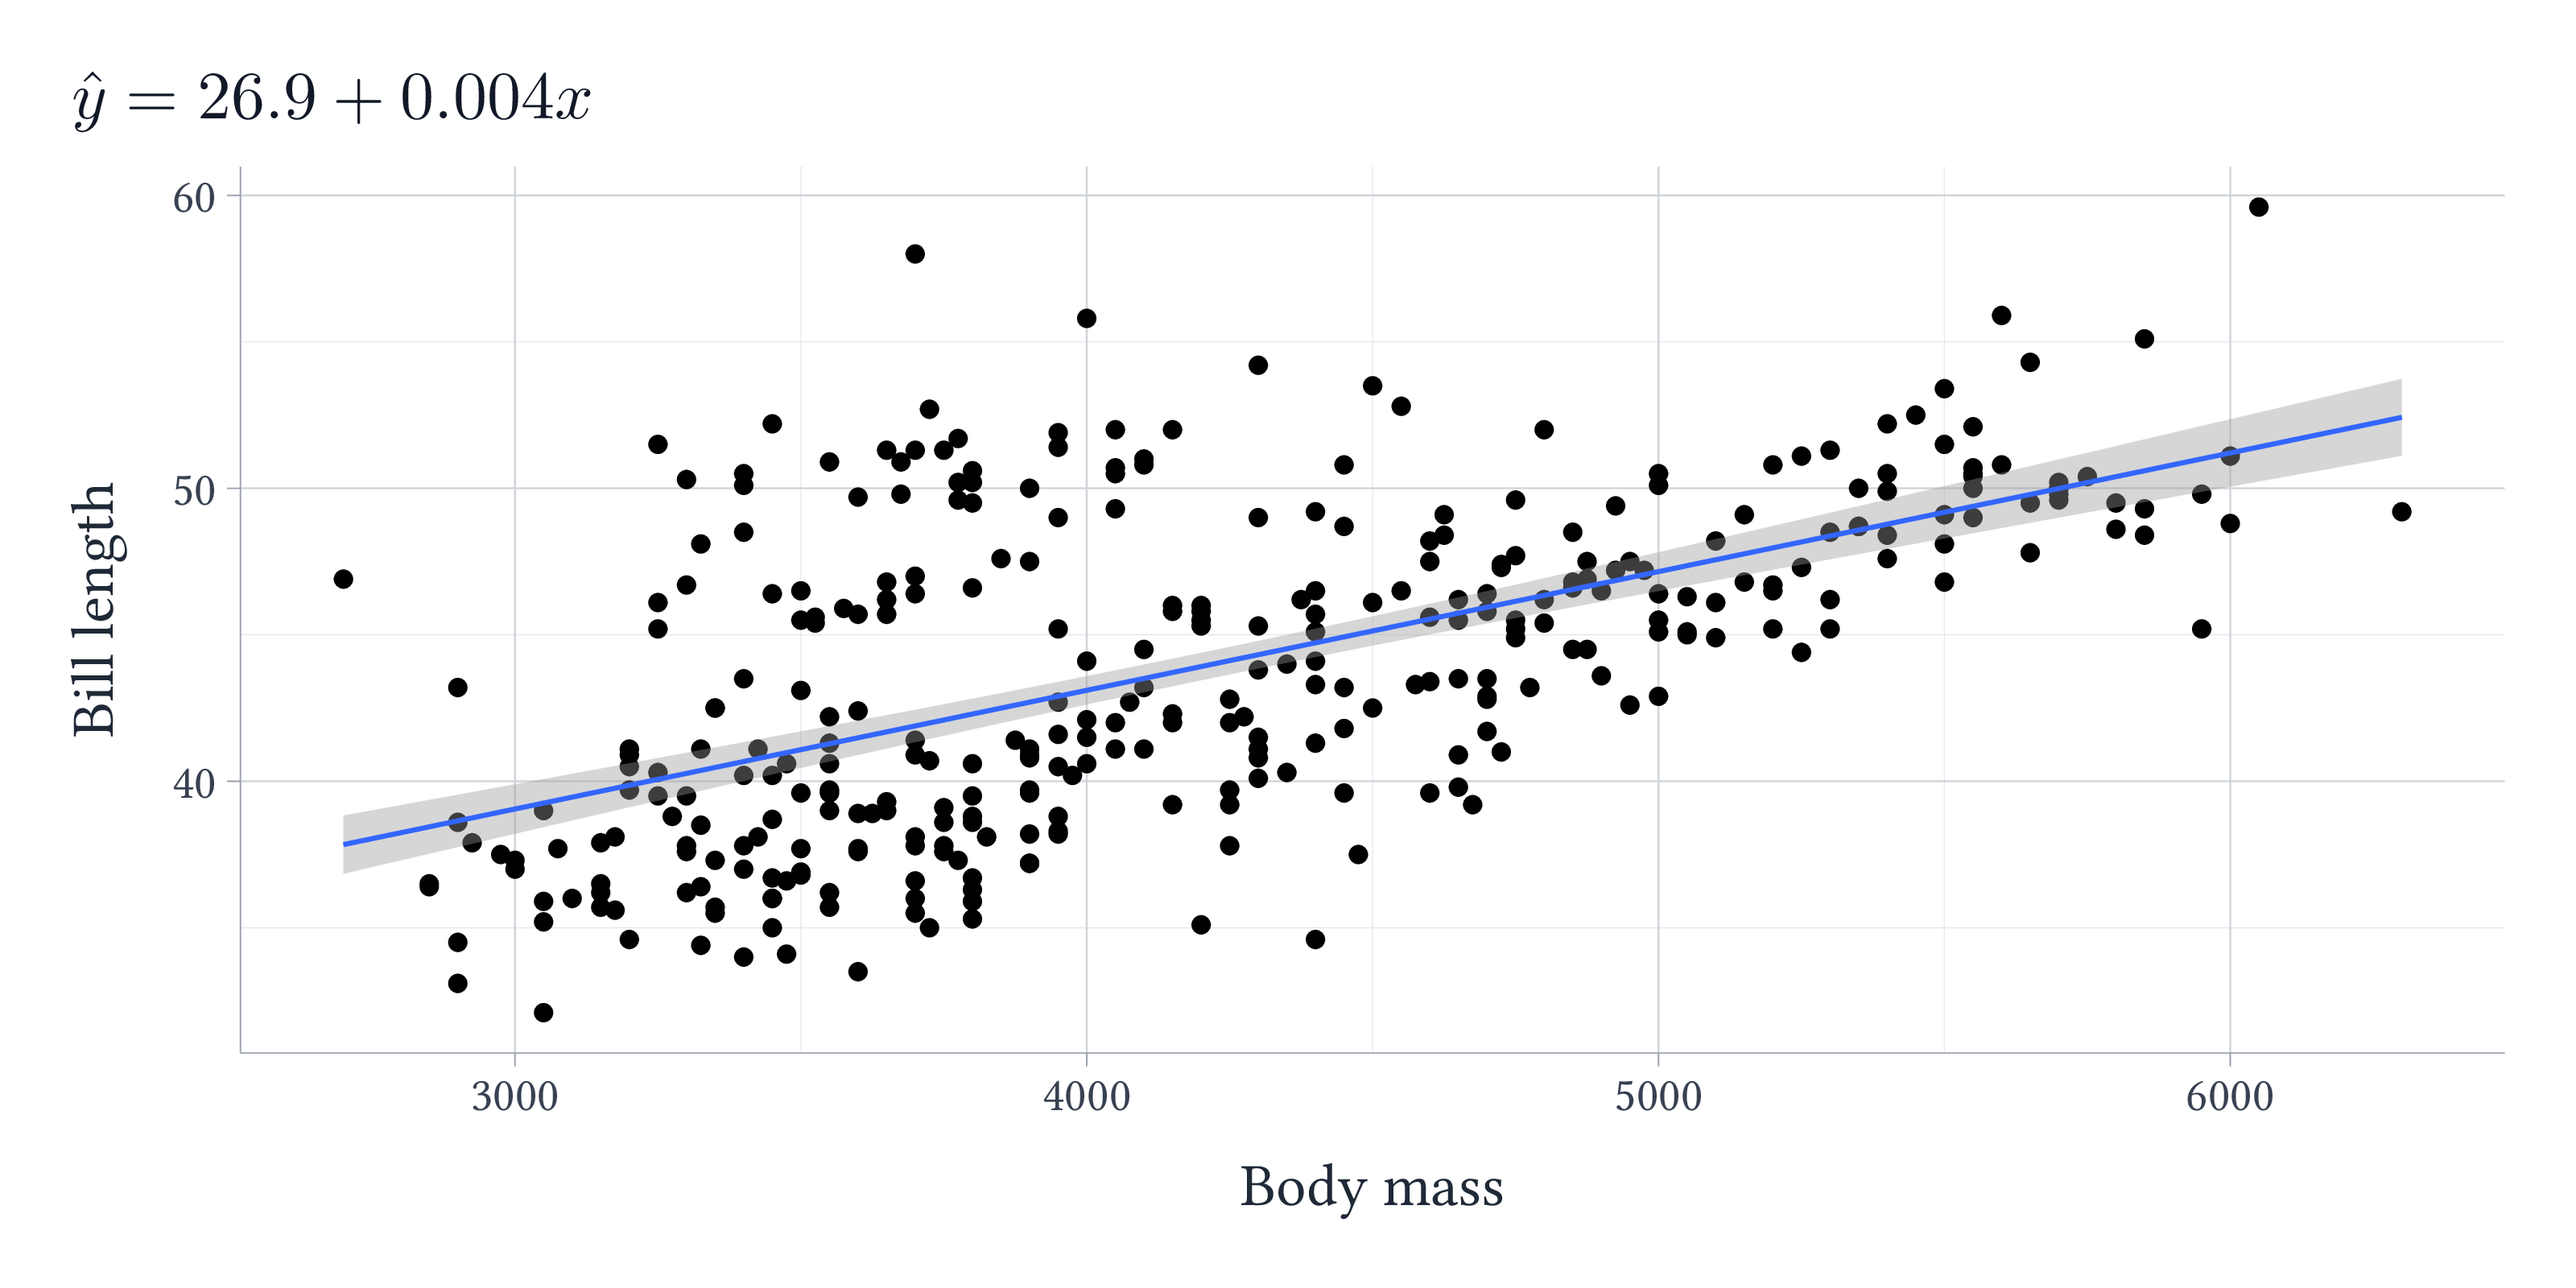
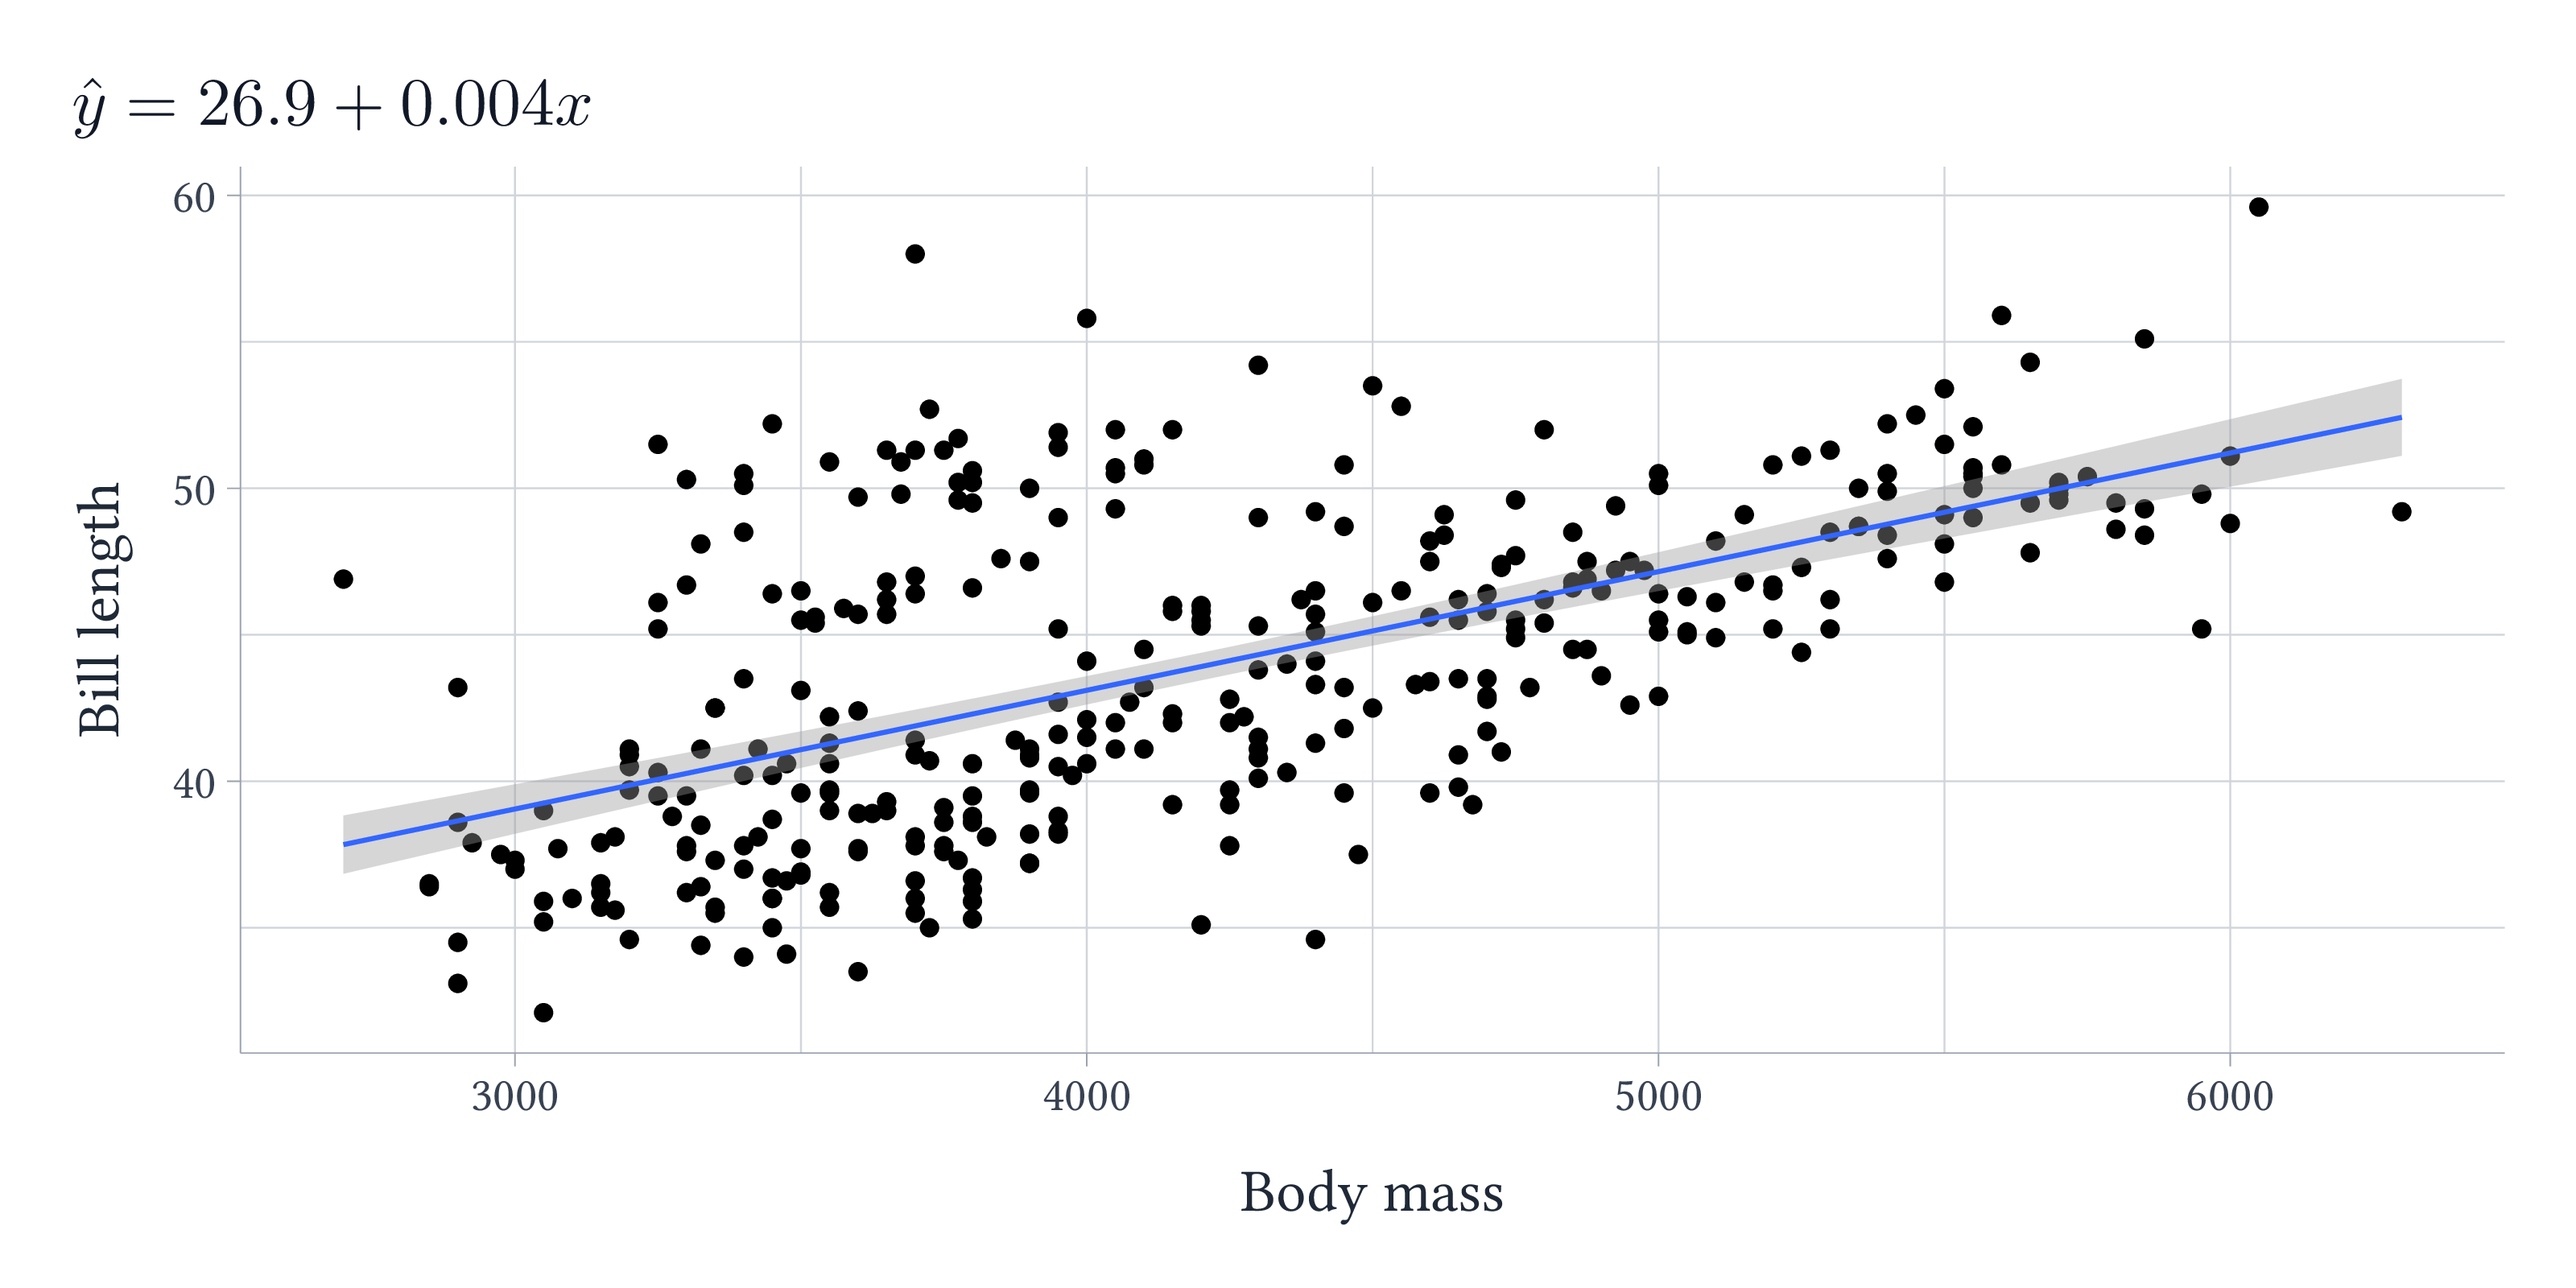
`tikzsave` into a temp directory

diff --git a/man/figures/README-penguins.tex b/man/figures/README-penguins.tex
@@ -1,4 +1,4 @@
-% Created by tikzDevice version 0.12.6 on 2024-02-19 14:20:34
+% Created by tikzDevice version 0.12.6 on 2024-03-18 11:14:40
 % !TEX encoding = UTF-8 Unicode
 \begin{tikzpicture}[x=1pt,y=1pt]
 \definecolor{fillColor}{RGB}{255,255,255}
@@ -15,26 +15,25 @@
 \definecolor{fillColor}{RGB}{255,255,255}
 
 \path[draw=drawColor,line width= 0.6pt,line join=round,line cap=round,fill=fillColor] ( 53.99, 52.74) rectangle (562.16,251.64);
-\definecolor{drawColor}{RGB}{229,231,235}
+\definecolor{drawColor}{RGB}{209,213,219}
 
-\path[draw=drawColor,line width= 0.2pt,line join=round] ( 53.99, 80.85) --
+\path[draw=drawColor,line width= 0.4pt,line join=round] ( 53.99, 80.85) --
 	(562.16, 80.85);
 
-\path[draw=drawColor,line width= 0.2pt,line join=round] ( 53.99,146.61) --
+\path[draw=drawColor,line width= 0.4pt,line join=round] ( 53.99,146.61) --
 	(562.16,146.61);
 
-\path[draw=drawColor,line width= 0.2pt,line join=round] ( 53.99,212.36) --
+\path[draw=drawColor,line width= 0.4pt,line join=round] ( 53.99,212.36) --
 	(562.16,212.36);
 
-\path[draw=drawColor,line width= 0.2pt,line join=round] (179.75, 52.74) --
+\path[draw=drawColor,line width= 0.4pt,line join=round] (179.75, 52.74) --
 	(179.75,251.64);
 
-\path[draw=drawColor,line width= 0.2pt,line join=round] (308.07, 52.74) --
+\path[draw=drawColor,line width= 0.4pt,line join=round] (308.07, 52.74) --
 	(308.07,251.64);
 
-\path[draw=drawColor,line width= 0.2pt,line join=round] (436.40, 52.74) --
+\path[draw=drawColor,line width= 0.4pt,line join=round] (436.40, 52.74) --
 	(436.40,251.64);
-\definecolor{drawColor}{RGB}{209,213,219}
 
 \path[draw=drawColor,line width= 0.4pt,line join=round] ( 53.99,113.73) --
 	(562.16,113.73);
@@ -1149,8 +1148,6 @@
 	(527.37,192.98) --
 	(533.21,194.20) --
 	(539.06,195.41);
-
-\path[] ( 53.99, 52.74) rectangle (562.16,251.64);
 \end{scope}
 \begin{scope}
 \path[clip] (  0.00,  0.00) rectangle (578.16,289.08);
@@ -1221,18 +1218,18 @@
 \path[clip] (  0.00,  0.00) rectangle (578.16,289.08);
 \definecolor{drawColor}{RGB}{31,41,55}
 
-\node[text=drawColor,anchor=base,inner sep=0pt, outer sep=0pt, scale=  1.35] at (308.07, 18.62) {Body mass};
+\node[text=drawColor,anchor=base,inner sep=0pt, outer sep=0pt, scale=  1.35] at (308.07, 17.31) {Body mass};
 \end{scope}
 \begin{scope}
 \path[clip] (  0.00,  0.00) rectangle (578.16,289.08);
 \definecolor{drawColor}{RGB}{31,41,55}
 
-\node[text=drawColor,rotate= 90.00,anchor=base,inner sep=0pt, outer sep=0pt, scale=  1.35] at ( 25.30,152.19) {Bill length};
+\node[text=drawColor,rotate= 90.00,anchor=base,inner sep=0pt, outer sep=0pt, scale=  1.35] at ( 26.61,152.19) {Bill length};
 \end{scope}
 \begin{scope}
 \path[clip] (  0.00,  0.00) rectangle (578.16,289.08);
 \definecolor{drawColor}{RGB}{17,24,39}
 
-\node[text=drawColor,anchor=base west,inner sep=0pt, outer sep=0pt, scale=  1.52] at ( 16.00,262.60) {\bfseries $\hat{y} = 26.9 + 0.004x$};
+\node[text=drawColor,anchor=base west,inner sep=0pt, outer sep=0pt, scale=  1.52] at ( 16.00,261.12) {\bfseries $\hat{y} = 26.9 + 0.004x$};
 \end{scope}
 \end{tikzpicture}

diff --git a/README.md b/README.md
@@ -93,7 +93,7 @@ p = ggplot(penguins) +
   geom_point(aes(x = body_mass_g, y = bill_length_mm)) +
   geom_smooth(
     aes(x = body_mass_g, y = bill_length_mm), 
-    method = lm
+    method = lm, formula = y ~ x
   ) +
   labs(
     x = "Body mass", y = "Bill length",
@@ -108,9 +108,8 @@ tikzsave(
   "man/figures/README-penguins.pdf",
   p, width = 8, height = 4,
   # uses `imagemagick` to convert to png 
-  create_png = TRUE 
+  create_png = TRUE
 )
-#> `geom_smooth()` using formula = 'y ~ x'
 ```
 
 <img src="man/figures/README-penguins.png" width="100%" />
